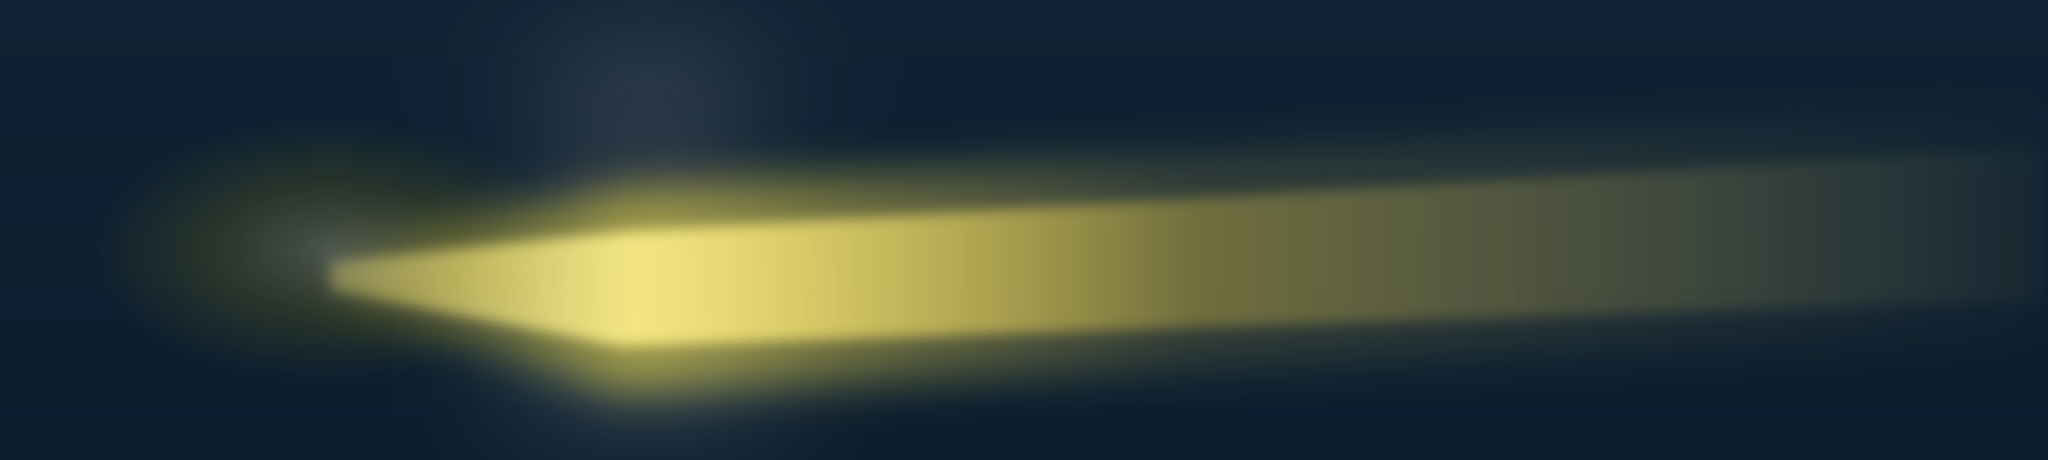
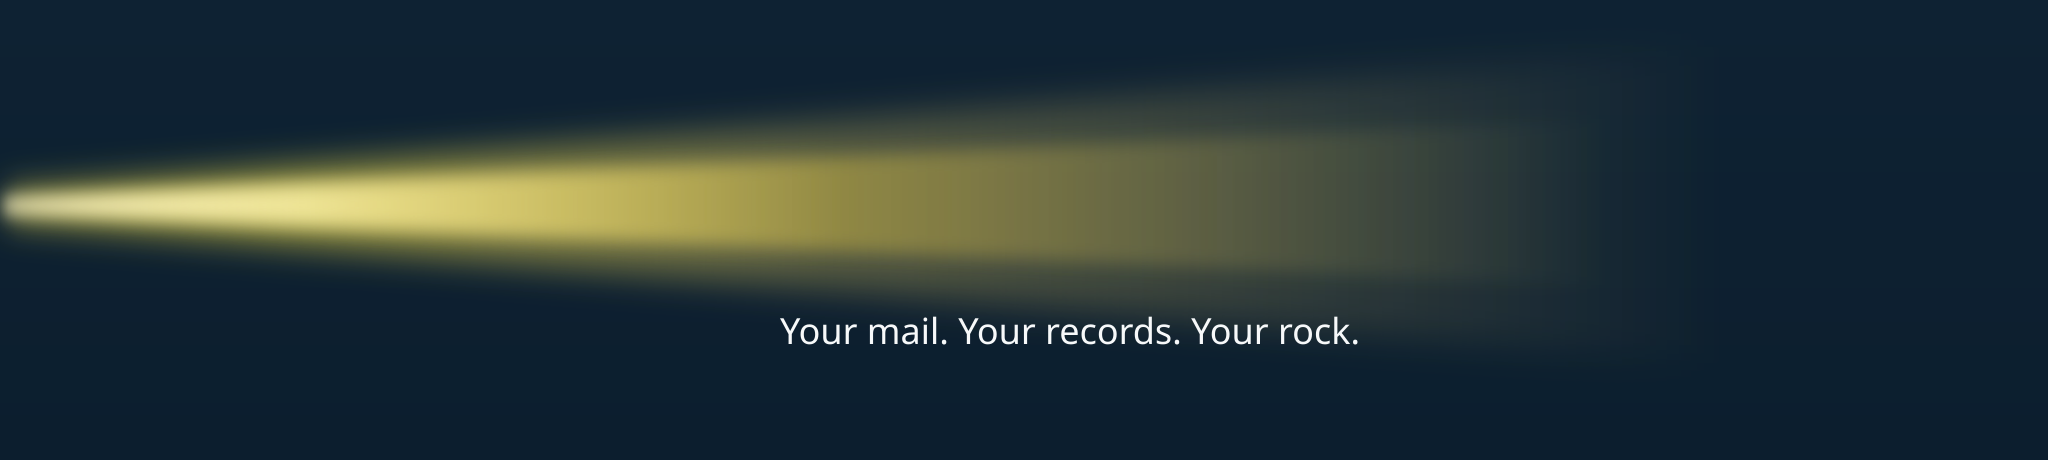
brand: the header beam enters from outside the frame, and the slogan is back
No more lining up. An apex drawn inside the artwork has to sit at a particular
height relative to the profile picture, and the cover is shown at wildly different
widths — a phone cuts it to a sliver — so any such position is wrong somewhere.
The apex is off-canvas now (`-140,206` at upload scale): the beam enters as a
sliver at the left edge and fans across the cover, and there is nothing in the
picture that can be out of place.

Added the slogan under the beam, where the ink is clean. No wordmark: the profile
page already prints the name twice below the cover.

Colour, again: yellow over ink at equal luminance goes green, so the near field is
a pale yellow (`#FFF8D6`) and the fade ends around 80% of the width. The slower
fade I tried first left an olive smear across the right half that read as paint.

diff --git a/brand/README.md b/brand/README.md
@@ -27,23 +27,22 @@ are served by the store itself.
 * **Org avatar / favicon** — `fyrhaven-mark.png` (512×512) or the SVG where SVG
   is accepted.
 * **Profile headers** — `fyrhaven-header.png`, 2048×460 (40:9, the band Gravatar
-  renders). **No words in it**, on purpose: the cover is the light, and anything
-  else is added once the light is settled.
+  renders). Content: **the slogan, and a beam that comes from outside the frame**.
 
-  What it is: an ink field, a yellow beam that starts narrow, opens at the avatar's
-  edge and fades out to the right, the lantern's bloom behind the profile picture,
-  and the tower as a shape you sense rather than see — the mark, hugely scaled and
-  blurred past recognition, at 16% opacity.
+  The beam's apex is off-canvas at upload scale (`-140,206`), so it enters as a
+  sliver at the left edge and fans across the cover. That is deliberate: an apex
+  inside the artwork has to be positioned relative to the profile picture, and the
+  cover is shown at wildly different widths — a phone cuts it to a sliver — so any
+  such position is wrong somewhere. Light entering from outside has no start to
+  align, and nothing in the picture can be "out of place".
 
-  **Nothing in it is aligned to the avatar.** A cover is shown at wildly different
-  widths — a phone cuts it to a sliver — so anything that has to meet the profile
-  picture will be wrong somewhere. That is why the earlier drawn-beam versions
-  never stayed right, and why this one is built from a beam that spans the canvas
-  and a glow that sits behind whatever covers the left corner.
+  The slogan sits below the beam, where the ink is clean and white text has
+  contrast. No wordmark: the profile prints the name itself, twice, under the
+  cover.
 
-  Two filters, not one: a soft halo (`halo`, blur 22) and a tighter core (`tight`,
-  blur 7). One blur cannot be both, and the diluted result goes olive instead of
-  yellow — which it did, three times.
+  Colour note: yellow blended onto ink at equal luminance goes green, so the beam
+  uses a pale yellow (`#FFF8D6` → `#FFE94A`) and a fade that ends around 80% of the
+  width. A slower fade leaves an olive smear that reads as paint, not light.
 * **Printing one ink** — `fyrhaven-mark-mono.svg`, never a file with a field.
 
 ## Palette
